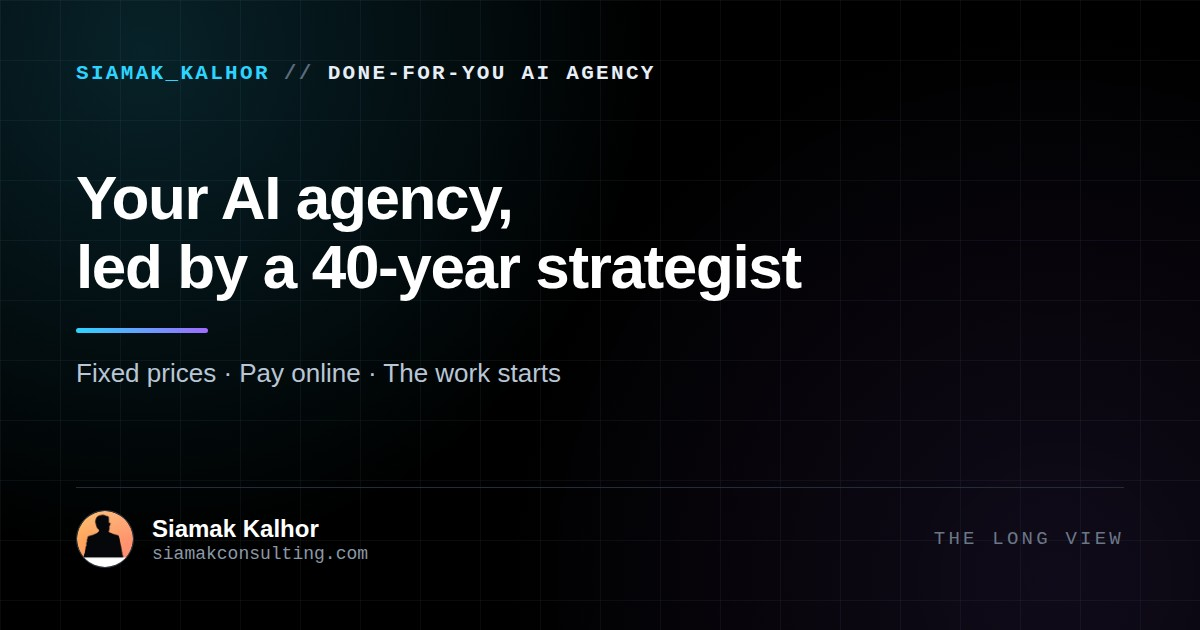
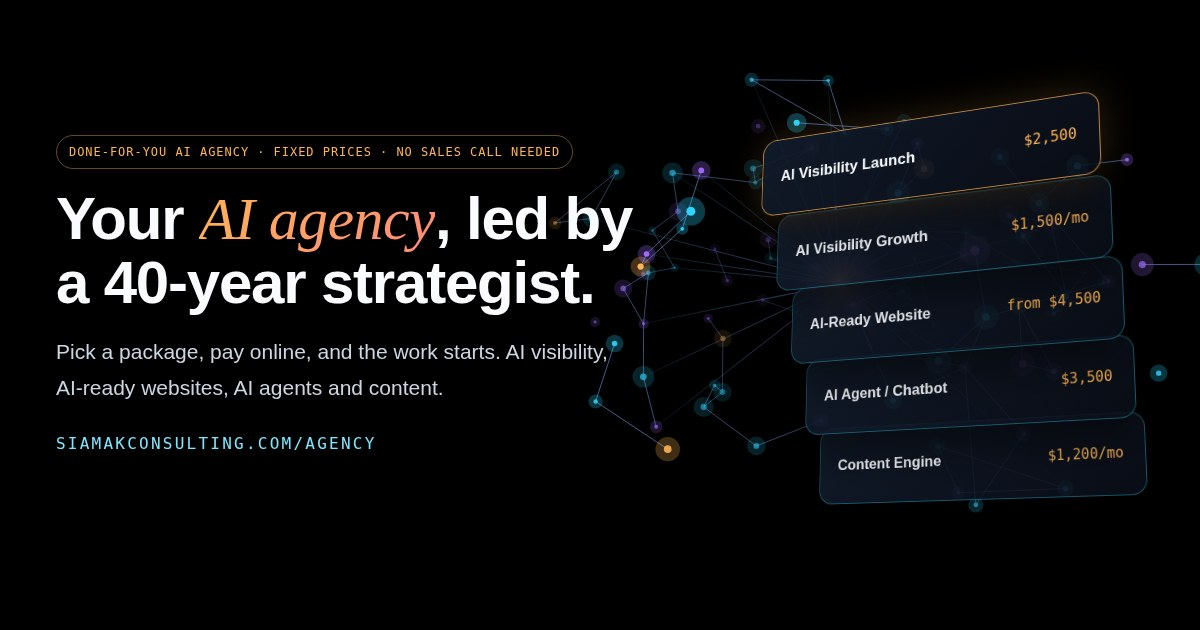
Agency page: 3-D hero network, floating package stack, depth reveal and tilt; new share image
Claude-Session: https://claude.ai/code/session_01TJBnR69vhW71zfQCkDKww1

diff --git a/agency/index.html b/agency/index.html
@@ -25,7 +25,7 @@ try{var c=JSON.parse(localStorage.getItem('sk_consent_v1'));if(c&&c.v===1&&Date.
 <meta property="og:title" content="Done-for-You AI Agency | Siamak Kalhor Consulting">
 <meta property="og:description" content="Fixed-price AI agency services: AI visibility, AI-ready websites, AI chatbots and content. Pay online and the work starts, led by Siamak Kalhor.">
 <meta property="og:url" content="https://siamakconsulting.com/agency">
-<meta property="og:image" content="https://siamakconsulting.com/og/pages/agency.jpg">
+<meta property="og:image" content="https://siamakconsulting.com/og/pages/agency.jpg?v=2">
 <meta property="og:image:width" content="1200">
 <meta property="og:image:height" content="630">
 <meta property="og:image:type" content="image/jpeg">
@@ -33,12 +33,37 @@ try{var c=JSON.parse(localStorage.getItem('sk_consent_v1'));if(c&&c.v===1&&Date.
 <meta name="twitter:card" content="summary_large_image">
 <meta name="twitter:title" content="Done-for-You AI Agency | Siamak Kalhor Consulting">
 <meta name="twitter:description" content="Fixed-price AI agency services: AI visibility, AI-ready websites, AI chatbots and content. Pay online and the work starts, led by Siamak Kalhor.">
-<meta name="twitter:image" content="https://siamakconsulting.com/og/pages/agency.jpg">
+<meta name="twitter:image" content="https://siamakconsulting.com/og/pages/agency.jpg?v=2">
 <script type="application/ld+json">{"@context": "https://schema.org", "@type": "Service", "@id": "https://siamakconsulting.com/agency#service", "name": "Done-for-you AI agency services", "serviceType": ["AI visibility (LLMO)", "AI-ready website design", "AI agents and chatbots", "Content marketing"], "provider": {"@id": "https://siamakconsulting.com/#business"}, "areaServed": [{"@type": "Country", "name": "United States"}, {"@type": "City", "name": "Los Angeles"}], "url": "https://siamakconsulting.com/agency", "description": "Fixed-price, done-for-you AI services for small and mid-size businesses, directed by AI consultant Siamak Kalhor.", "hasOfferCatalog": {"@type": "OfferCatalog", "name": "AI agency packages", "itemListElement": [{"@type": "Offer", "name": "AI Visibility Launch", "price": "2500", "priceCurrency": "USD", "url": "https://siamakconsulting.com/agency#launch", "description": "Businesses that want ChatGPT, Gemini and Perplexity to find, understand and name them.", "seller": {"@id": "https://siamakconsulting.com/#business"}}, {"@type": "Offer", "name": "AI Visibility Growth", "price": "1500", "priceCurrency": "USD", "url": "https://siamakconsulting.com/agency#growth", "description": "Businesses that want to keep climbing in Google and AI answers every month.", "seller": {"@id": "https://siamakconsulting.com/#business"}, "priceSpecification": {"@type": "UnitPriceSpecification", "price": "1500", "priceCurrency": "USD", "unitCode": "MON"}}, {"@type": "Offer", "name": "AI-Ready Website", "price": "4500", "priceCurrency": "USD", "url": "https://siamakconsulting.com/agency#website", "description": "Businesses replacing an old site that Google and AI can barely read.", "seller": {"@id": "https://siamakconsulting.com/#business"}}, {"@type": "Offer", "name": "AI Agent / Chatbot", "price": "3500", "priceCurrency": "USD", "url": "https://siamakconsulting.com/agency#agent", "description": "Businesses losing leads after hours or answering the same questions all day.", "seller": {"@id": "https://siamakconsulting.com/#business"}}, {"@type": "Offer", "name": "Content Engine", "price": "1200", "priceCurrency": "USD", "url": "https://siamakconsulting.com/agency#content", "description": "Businesses that know they should publish but never have the time.", "seller": {"@id": "https://siamakconsulting.com/#business"}, "priceSpecification": {"@type": "UnitPriceSpecification", "price": "1200", "priceCurrency": "USD", "unitCode": "MON"}}]}}</script>
 <script type="application/ld+json">{"@context": "https://schema.org", "@type": "FAQPage", "mainEntity": [{"@type": "Question", "name": "What does the done-for-you AI agency do?", "acceptedAnswer": {"@type": "Answer", "text": "Siamak Kalhor Consulting sets the strategy and does the work for you: AI visibility (getting your business named by ChatGPT, Gemini and Perplexity), AI-ready websites, AI agents and chatbots, and monthly content. You approve the work; you do not have to do it."}}, {"@type": "Question", "name": "Do I need a sales call before I buy?", "acceptedAnswer": {"@type": "Answer", "text": "No. Each package has a fixed price and a checkout button. After you pay, you fill in a short brief about your business and we email a kickoff plan within one business day. You can still call 323-657-7752 if you would rather talk first."}}, {"@type": "Question", "name": "Who actually does the work?", "acceptedAnswer": {"@type": "Answer", "text": "Siamak Kalhor, an AI consultant with 40 years in marketing, directs every project and reviews the work. Delivery uses AI tools and automation built in-house, which is how fixed prices stay this low without cutting corners."}}, {"@type": "Question", "name": "What if my business is not a good fit?", "acceptedAnswer": {"@type": "Answer", "text": "We review every order within one business day. If we cannot do the work well for you, we tell you and refund the payment in full before any work starts."}}, {"@type": "Question", "name": "Can I cancel a monthly plan?", "acceptedAnswer": {"@type": "Answer", "text": "Yes. Monthly plans run month to month. Email or call to cancel and billing stops at the end of the current month."}}, {"@type": "Question", "name": "Which platforms do you work with?", "acceptedAnswer": {"@type": "Answer", "text": "Shopify, WordPress, Wix, Squarespace, Webflow and custom sites. For AI agents, we connect to your email, calendar or CRM where it has an integration."}}]}</script>
 <script type="application/ld+json">{"@context": "https://schema.org", "@type": "BreadcrumbList", "itemListElement": [{"@type": "ListItem", "position": 1, "name": "Home", "item": "https://siamakconsulting.com"}, {"@type": "ListItem", "position": 2, "name": "AI Agency", "item": "https://siamakconsulting.com/agency"}]}</script>
 <style>
-.ag-hero{padding:72px 0 30px}.ag-hero .ph-sub{max-width:800px}
+.ag-hero{padding:72px 0 40px;position:relative;overflow:hidden}.ag-hero .ph-sub{max-width:640px}
+.net3d{position:absolute;inset:0;width:100%;height:100%;z-index:0;pointer-events:none}
+.ag-hero::before{content:"";position:absolute;inset:0;z-index:0;pointer-events:none;background:linear-gradient(90deg,rgba(0,0,0,.78) 0%,rgba(0,0,0,.35) 50%,rgba(0,0,0,0) 75%)}
+.ag-hero>.wrap{position:relative;z-index:1}
+.ag-hgrid{display:grid;grid-template-columns:minmax(0,1.15fr) minmax(0,.85fr);gap:40px;align-items:center}
+.ag-stage{perspective:1200px;height:440px;position:relative}
+.ag-stack{position:absolute;inset:0;transform-style:preserve-3d;transform:rotateX(var(--sx,14deg)) rotateY(var(--sy,-22deg));transition:transform .35s ease-out}
+.ag-layer{position:absolute;left:8%;right:8%;top:50%;height:86px;margin-top:-43px;border-radius:16px;display:flex;align-items:center;justify-content:space-between;gap:12px;padding:0 22px;
+ background:linear-gradient(135deg,rgba(18,28,44,.92),rgba(10,14,24,.88));border:1px solid rgba(45,212,255,.35);box-shadow:0 20px 50px rgba(0,0,0,.55),inset 0 1px 0 rgba(255,255,255,.06);
+ transform:translateY(calc(var(--i) * 74px - 148px)) translateZ(calc(var(--i) * -38px));animation:agFloat 6s ease-in-out infinite;animation-delay:calc(var(--i) * -1.1s);text-decoration:none;color:var(--text)}
+.ag-layer b{font-family:var(--display);font-size:17px;font-weight:600}.ag-layer span{font-family:var(--mono);font-size:15px;color:#ffb454;white-space:nowrap}
+.ag-layer:first-child{border-color:rgba(255,180,84,.7);box-shadow:0 0 40px rgba(255,180,84,.18),0 20px 50px rgba(0,0,0,.55)}
+.ag-layer:hover{border-color:var(--cyan)}
+@keyframes agFloat{0%,100%{translate:0 0}50%{translate:0 -8px}}
+.ag-stats{display:flex;flex-wrap:wrap;gap:10px 26px;margin-top:26px;font-family:var(--mono);font-size:12.5px;color:var(--muted);letter-spacing:.04em}.ag-stats b{color:var(--text);font-size:18px;display:block;font-family:var(--display);letter-spacing:0}
+.ag-grid.d3{perspective:1400px}
+.ag-reveal{opacity:0;transform:translateZ(-220px) rotateX(22deg) translateY(50px);transition:opacity .9s ease,transform 1s cubic-bezier(.2,.8,.2,1)}
+.ag-reveal.in{opacity:1;transform:none}
+.ag-card.tilt{position:relative}
+.ag-card.d3-tilt.in{transform:perspective(900px) rotateX(var(--rx,0deg)) rotateY(var(--ry,0deg));transition:transform .2s ease-out,opacity .9s ease}
+.d3-tilt::after{content:"";position:absolute;inset:0;border-radius:inherit;pointer-events:none;background:radial-gradient(420px circle at var(--gx,50%) var(--gy,50%),rgba(255,255,255,.07),transparent 45%)}
+.ag-card.hot .ag-price{background:linear-gradient(90deg,#ffd27a,#ff9a62);-webkit-background-clip:text;background-clip:text;-webkit-text-fill-color:transparent}
+@media(max-width:900px){.ag-hgrid{grid-template-columns:minmax(0,1fr)}.ag-stage{height:380px}.ag-hero::before{background:linear-gradient(180deg,rgba(0,0,0,.55),rgba(0,0,0,.25) 50%,rgba(0,0,0,.6))}}
+@media(max-width:900px){.ag-hero .net3d{opacity:.4}}
+@media(max-width:520px){.ag-layer{left:2%;right:2%;padding:0 14px;height:74px;margin-top:-37px}.ag-layer b{font-size:15px}.ag-layer span{font-size:13px}.ag-stage{height:340px}}
+@media(prefers-reduced-motion:reduce){.ag-layer{animation:none}.ag-reveal{opacity:1;transform:none;transition:none}}
 .ag-pill{display:inline-block;font-family:var(--mono);font-size:12px;letter-spacing:.08em;color:#ffb454;border:1px solid rgba(255,180,84,.4);border-radius:999px;padding:6px 12px;margin-bottom:18px}
 .ag-grid{display:grid;grid-template-columns:repeat(auto-fit,minmax(300px,1fr));gap:18px;margin-top:22px}
 .ag-card{background:var(--surface);border:1px solid var(--line);border-radius:18px;padding:26px;display:flex;flex-direction:column;gap:12px}
@@ -387,15 +412,17 @@ nav{position:sticky;top:0;z-index:100;background:rgba(0,0,0,.72);backdrop-filter
   </div>
 </nav>
 <main id="main">
-<header class="ag-hero"><div class="wrap">
+<header class="ag-hero"><canvas class="net3d" aria-hidden="true"></canvas><div class="wrap"><div class="ag-hgrid"><div>
 <div class="ag-pill">DONE-FOR-YOU AI AGENCY · FIXED PRICES · NO SALES CALL NEEDED</div>
 <h1 class="ph-h">Your <span class="grad">AI agency</span>, led by a 40-year strategist.</h1>
 <p class="ph-sub">Pick a package, pay online, and the work starts. Siamak Kalhor sets the strategy and reviews every deliverable. Our AI-powered team does the work: getting you named by ChatGPT and Google, AI-ready websites, AI agents that answer leads 24/7, and monthly content.</p>
 <div class="ph-btns" style="margin-top:22px"><a href="#packages" class="btn btn-pri">See the packages &rarr;</a><a href="/audit" class="btn btn-ghost">Free AI visibility report first</a></div>
+<div class="ag-stats"><div><b>5</b>fixed-price packages</div><div><b>1 day</b>to your kickoff plan</div><div><b>40 yrs</b>of marketing judgment</div></div>
+</div><div class="ag-stage" aria-hidden="true"><div class="ag-stack"><a class="ag-layer" href="#launch" style="--i:0" tabindex="-1"><b>AI Visibility Launch</b><span>$2,500</span></a><a class="ag-layer" href="#growth" style="--i:1" tabindex="-1"><b>AI Visibility Growth</b><span>$1,500/mo</span></a><a class="ag-layer" href="#website" style="--i:2" tabindex="-1"><b>AI-Ready Website</b><span>from $4,500</span></a><a class="ag-layer" href="#agent" style="--i:3" tabindex="-1"><b>AI Agent / Chatbot</b><span>$3,500</span></a><a class="ag-layer" href="#content" style="--i:4" tabindex="-1"><b>Content Engine</b><span>$1,200/mo</span></a></div></div></div>
 </div></header>
 <section id="packages"><div class="wrap"><div class="sec-label">Packages</div><h2 class="sec-h">Five ways to hire us</h2>
 <p style="color:var(--muted);max-width:760px">Every price is fixed and published. Pay securely by card through Stripe, then tell us about your business in a two-minute brief.</p>
-<div class="ag-grid"><div class="ag-card hot" id="launch"><div class="ag-tag">Most popular start</div><h3>AI Visibility Launch</h3><div class="ag-price">$2,500<small>one-time</small></div><p class="ag-for">Businesses that want ChatGPT, Gemini and Perplexity to find, understand and name them.</p><ul><li>Full S.C.A.L.E. scan of your site and listings</li><li>Schema and business-entity setup (the facts AI reads)</li><li>Answer-first FAQ and an llms.txt file</li><li>Google profile, directory and citation clean-up</li><li>A 10-question AI tracking baseline</li><li>A written report with your next 90 days</li></ul><div class="ag-time">Delivered in about 2 weeks</div><a class="ag-btn" href="https://buy.stripe.com/eVq00k6P69IQ3B2b2p0kE05" data-pkg="launch" rel="noopener">Start AI Visibility Launch &rarr;</a></div><div class="ag-card" id="growth"><div class="ag-tag">Ongoing</div><h3>AI Visibility Growth</h3><div class="ag-price">$1,500<small>per month</small></div><p class="ag-for">Businesses that want to keep climbing in Google and AI answers every month.</p><ul><li>4 answer-first articles a month, written and published</li><li>Citation and listing building where AI looks</li><li>Ongoing technical and schema fixes</li><li>Monthly AI-mention report: are you named, and where</li><li>Best after the Launch package</li></ul><div class="ag-time">Month to month</div><a class="ag-btn" href="https://buy.stripe.com/8x26oI7Ta8EMb3ugmJ0kE06" data-pkg="growth" rel="noopener">Start AI Visibility Growth &rarr;</a></div><div class="ag-card" id="website"><div class="ag-tag">Build</div><h3>AI-Ready Website</h3><div class="ag-price">From $4,500<small>50% deposit to start ($2,250)</small></div><p class="ag-for">Businesses replacing an old site that Google and AI can barely read.</p><ul><li>Up to 8 pages on Shopify, WordPress or custom</li><li>Clear positioning and copy written for you</li><li>Fast, mobile-first, with schema built in</li><li>Titles, descriptions and share previews on every page</li><li>Analytics and lead forms wired up</li><li>Balance due at launch</li></ul><div class="ag-time">Launched in 3–4 weeks</div><a class="ag-btn" href="https://buy.stripe.com/8x200k8Xe7AIdbC2vT0kE07" data-pkg="website" rel="noopener">Start AI-Ready Website &rarr;</a></div><div class="ag-card" id="agent"><div class="ag-tag">Automation</div><h3>AI Agent / Chatbot</h3><div class="ag-price">$3,500<small>setup + $250/month care</small></div><p class="ag-for">Businesses losing leads after hours or answering the same questions all day.</p><ul><li>A website chat or voice assistant trained on your business</li><li>Answers questions, qualifies leads, books or forwards them</li><li>Leads sent to your email or CRM</li><li>Monthly care: hosting, monitoring and tuning</li><li>You approve every answer before it goes live</li></ul><div class="ag-time">Live in about 3 weeks</div><a class="ag-btn" href="https://buy.stripe.com/9B67sMgpG9IQb3udax0kE08" data-pkg="agent" rel="noopener">Start AI Agent / Chatbot &rarr;</a></div><div class="ag-card" id="content"><div class="ag-tag">Ongoing</div><h3>Content Engine</h3><div class="ag-price">$1,200<small>per month</small></div><p class="ag-for">Businesses that know they should publish but never have the time.</p><ul><li>8 articles a month, researched and published</li><li>12 social posts a month</li><li>Written in your voice, approved by you</li><li>Built to be quoted by AI assistants and found in Google</li></ul><div class="ag-time">Month to month</div><a class="ag-btn" href="https://buy.stripe.com/bJe28s0qI4owgnOdax0kE09" data-pkg="content" rel="noopener">Start Content Engine &rarr;</a></div></div>
+<div class="ag-grid d3"><div class="ag-card tilt ag-reveal hot" id="launch"><div class="ag-tag">Most popular start</div><h3>AI Visibility Launch</h3><div class="ag-price">$2,500<small>one-time</small></div><p class="ag-for">Businesses that want ChatGPT, Gemini and Perplexity to find, understand and name them.</p><ul><li>Full S.C.A.L.E. scan of your site and listings</li><li>Schema and business-entity setup (the facts AI reads)</li><li>Answer-first FAQ and an llms.txt file</li><li>Google profile, directory and citation clean-up</li><li>A 10-question AI tracking baseline</li><li>A written report with your next 90 days</li></ul><div class="ag-time">Delivered in about 2 weeks</div><a class="ag-btn" href="https://buy.stripe.com/eVq00k6P69IQ3B2b2p0kE05" data-pkg="launch" rel="noopener">Start AI Visibility Launch &rarr;</a></div><div class="ag-card tilt ag-reveal" id="growth"><div class="ag-tag">Ongoing</div><h3>AI Visibility Growth</h3><div class="ag-price">$1,500<small>per month</small></div><p class="ag-for">Businesses that want to keep climbing in Google and AI answers every month.</p><ul><li>4 answer-first articles a month, written and published</li><li>Citation and listing building where AI looks</li><li>Ongoing technical and schema fixes</li><li>Monthly AI-mention report: are you named, and where</li><li>Best after the Launch package</li></ul><div class="ag-time">Month to month</div><a class="ag-btn" href="https://buy.stripe.com/8x26oI7Ta8EMb3ugmJ0kE06" data-pkg="growth" rel="noopener">Start AI Visibility Growth &rarr;</a></div><div class="ag-card tilt ag-reveal" id="website"><div class="ag-tag">Build</div><h3>AI-Ready Website</h3><div class="ag-price">From $4,500<small>50% deposit to start ($2,250)</small></div><p class="ag-for">Businesses replacing an old site that Google and AI can barely read.</p><ul><li>Up to 8 pages on Shopify, WordPress or custom</li><li>Clear positioning and copy written for you</li><li>Fast, mobile-first, with schema built in</li><li>Titles, descriptions and share previews on every page</li><li>Analytics and lead forms wired up</li><li>Balance due at launch</li></ul><div class="ag-time">Launched in 3–4 weeks</div><a class="ag-btn" href="https://buy.stripe.com/8x200k8Xe7AIdbC2vT0kE07" data-pkg="website" rel="noopener">Start AI-Ready Website &rarr;</a></div><div class="ag-card tilt ag-reveal" id="agent"><div class="ag-tag">Automation</div><h3>AI Agent / Chatbot</h3><div class="ag-price">$3,500<small>setup + $250/month care</small></div><p class="ag-for">Businesses losing leads after hours or answering the same questions all day.</p><ul><li>A website chat or voice assistant trained on your business</li><li>Answers questions, qualifies leads, books or forwards them</li><li>Leads sent to your email or CRM</li><li>Monthly care: hosting, monitoring and tuning</li><li>You approve every answer before it goes live</li></ul><div class="ag-time">Live in about 3 weeks</div><a class="ag-btn" href="https://buy.stripe.com/9B67sMgpG9IQb3udax0kE08" data-pkg="agent" rel="noopener">Start AI Agent / Chatbot &rarr;</a></div><div class="ag-card tilt ag-reveal" id="content"><div class="ag-tag">Ongoing</div><h3>Content Engine</h3><div class="ag-price">$1,200<small>per month</small></div><p class="ag-for">Businesses that know they should publish but never have the time.</p><ul><li>8 articles a month, researched and published</li><li>12 social posts a month</li><li>Written in your voice, approved by you</li><li>Built to be quoted by AI assistants and found in Google</li></ul><div class="ag-time">Month to month</div><a class="ag-btn" href="https://buy.stripe.com/bJe28s0qI4owgnOdax0kE09" data-pkg="content" rel="noopener">Start Content Engine &rarr;</a></div></div>
 <p style="color:var(--muted-dim);font-size:14px;margin-top:16px">Need something bigger or different? <a href="/contact-us" style="color:var(--cyan)">Ask for a custom quote</a>, or book <a href="/online-consulting" style="color:var(--cyan)">a strategy hour with Siamak</a> ($350).</p>
 </div></section>
 <section><div class="wrap"><div class="sec-label">How it works</div><h2 class="sec-h">From checkout to results, without the meetings</h2>
@@ -561,6 +588,7 @@ elevenlabs-convai{
 </script>
 <script defer src="/consent.js"></script>
 <script defer src="/robot.js"></script>
-<script src="/agency/agency.js?v=1" defer></script>
+<script src="/agency/agency.js?v=2" defer></script>
+<script src="/assets/depth3d.js?v=2" defer></script>
 </body>
 </html>

diff --git a/agency/start/index.html b/agency/start/index.html
@@ -25,7 +25,7 @@ try{var c=JSON.parse(localStorage.getItem('sk_consent_v1'));if(c&&c.v===1&&Date.
 <meta property="og:title" content="Start Your AI Agency Project | Siamak Kalhor Consulting">
 <meta property="og:description" content="Send your project brief after checkout: your business, goals, competitors and website. We email a kickoff plan within one business day.">
 <meta property="og:url" content="https://siamakconsulting.com/agency/start">
-<meta property="og:image" content="https://siamakconsulting.com/og/pages/agency.jpg">
+<meta property="og:image" content="https://siamakconsulting.com/og/pages/agency.jpg?v=2">
 <meta property="og:image:width" content="1200">
 <meta property="og:image:height" content="630">
 <meta property="og:image:type" content="image/jpeg">
@@ -33,9 +33,34 @@ try{var c=JSON.parse(localStorage.getItem('sk_consent_v1'));if(c&&c.v===1&&Date.
 <meta name="twitter:card" content="summary_large_image">
 <meta name="twitter:title" content="Start Your AI Agency Project | Siamak Kalhor Consulting">
 <meta name="twitter:description" content="Send your project brief after checkout: your business, goals, competitors and website. We email a kickoff plan within one business day.">
-<meta name="twitter:image" content="https://siamakconsulting.com/og/pages/agency.jpg">
+<meta name="twitter:image" content="https://siamakconsulting.com/og/pages/agency.jpg?v=2">
 <style>
-.ag-hero{padding:72px 0 30px}.ag-hero .ph-sub{max-width:800px}
+.ag-hero{padding:72px 0 40px;position:relative;overflow:hidden}.ag-hero .ph-sub{max-width:640px}
+.net3d{position:absolute;inset:0;width:100%;height:100%;z-index:0;pointer-events:none}
+.ag-hero::before{content:"";position:absolute;inset:0;z-index:0;pointer-events:none;background:linear-gradient(90deg,rgba(0,0,0,.78) 0%,rgba(0,0,0,.35) 50%,rgba(0,0,0,0) 75%)}
+.ag-hero>.wrap{position:relative;z-index:1}
+.ag-hgrid{display:grid;grid-template-columns:minmax(0,1.15fr) minmax(0,.85fr);gap:40px;align-items:center}
+.ag-stage{perspective:1200px;height:440px;position:relative}
+.ag-stack{position:absolute;inset:0;transform-style:preserve-3d;transform:rotateX(var(--sx,14deg)) rotateY(var(--sy,-22deg));transition:transform .35s ease-out}
+.ag-layer{position:absolute;left:8%;right:8%;top:50%;height:86px;margin-top:-43px;border-radius:16px;display:flex;align-items:center;justify-content:space-between;gap:12px;padding:0 22px;
+ background:linear-gradient(135deg,rgba(18,28,44,.92),rgba(10,14,24,.88));border:1px solid rgba(45,212,255,.35);box-shadow:0 20px 50px rgba(0,0,0,.55),inset 0 1px 0 rgba(255,255,255,.06);
+ transform:translateY(calc(var(--i) * 74px - 148px)) translateZ(calc(var(--i) * -38px));animation:agFloat 6s ease-in-out infinite;animation-delay:calc(var(--i) * -1.1s);text-decoration:none;color:var(--text)}
+.ag-layer b{font-family:var(--display);font-size:17px;font-weight:600}.ag-layer span{font-family:var(--mono);font-size:15px;color:#ffb454;white-space:nowrap}
+.ag-layer:first-child{border-color:rgba(255,180,84,.7);box-shadow:0 0 40px rgba(255,180,84,.18),0 20px 50px rgba(0,0,0,.55)}
+.ag-layer:hover{border-color:var(--cyan)}
+@keyframes agFloat{0%,100%{translate:0 0}50%{translate:0 -8px}}
+.ag-stats{display:flex;flex-wrap:wrap;gap:10px 26px;margin-top:26px;font-family:var(--mono);font-size:12.5px;color:var(--muted);letter-spacing:.04em}.ag-stats b{color:var(--text);font-size:18px;display:block;font-family:var(--display);letter-spacing:0}
+.ag-grid.d3{perspective:1400px}
+.ag-reveal{opacity:0;transform:translateZ(-220px) rotateX(22deg) translateY(50px);transition:opacity .9s ease,transform 1s cubic-bezier(.2,.8,.2,1)}
+.ag-reveal.in{opacity:1;transform:none}
+.ag-card.tilt{position:relative}
+.ag-card.d3-tilt.in{transform:perspective(900px) rotateX(var(--rx,0deg)) rotateY(var(--ry,0deg));transition:transform .2s ease-out,opacity .9s ease}
+.d3-tilt::after{content:"";position:absolute;inset:0;border-radius:inherit;pointer-events:none;background:radial-gradient(420px circle at var(--gx,50%) var(--gy,50%),rgba(255,255,255,.07),transparent 45%)}
+.ag-card.hot .ag-price{background:linear-gradient(90deg,#ffd27a,#ff9a62);-webkit-background-clip:text;background-clip:text;-webkit-text-fill-color:transparent}
+@media(max-width:900px){.ag-hgrid{grid-template-columns:minmax(0,1fr)}.ag-stage{height:380px}.ag-hero::before{background:linear-gradient(180deg,rgba(0,0,0,.55),rgba(0,0,0,.25) 50%,rgba(0,0,0,.6))}}
+@media(max-width:900px){.ag-hero .net3d{opacity:.4}}
+@media(max-width:520px){.ag-layer{left:2%;right:2%;padding:0 14px;height:74px;margin-top:-37px}.ag-layer b{font-size:15px}.ag-layer span{font-size:13px}.ag-stage{height:340px}}
+@media(prefers-reduced-motion:reduce){.ag-layer{animation:none}.ag-reveal{opacity:1;transform:none;transition:none}}
 .ag-pill{display:inline-block;font-family:var(--mono);font-size:12px;letter-spacing:.08em;color:#ffb454;border:1px solid rgba(255,180,84,.4);border-radius:999px;padding:6px 12px;margin-bottom:18px}
 .ag-grid{display:grid;grid-template-columns:repeat(auto-fit,minmax(300px,1fr));gap:18px;margin-top:22px}
 .ag-card{background:var(--surface);border:1px solid var(--line);border-radius:18px;padding:26px;display:flex;flex-direction:column;gap:12px}
@@ -552,6 +577,7 @@ elevenlabs-convai{
 </script>
 <script defer src="/consent.js"></script>
 <script defer src="/robot.js"></script>
-<script src="/agency/agency.js?v=1" defer></script>
+<script src="/agency/agency.js?v=2" defer></script>
+<script src="/assets/depth3d.js?v=2" defer></script>
 </body>
 </html>

diff --git a/agency/agency.js b/agency/agency.js
@@ -6,6 +6,23 @@
   document.querySelectorAll('a[data-pkg]').forEach(function (a) {
     a.addEventListener('click', function () { var k = a.getAttribute('data-pkg'); track('begin_checkout', { currency: 'USD', value: VALUES[k] || 0, items: [{ item_name: k }] }); });
   });
+  // 3-D: packages rise out of depth as they scroll in; the hero stack follows the pointer.
+  var reduce = window.matchMedia && matchMedia('(prefers-reduced-motion: reduce)').matches;
+  var rev = document.querySelectorAll('.ag-reveal');
+  if (reduce || !('IntersectionObserver' in window)) rev.forEach(function (el) { el.classList.add('in'); });
+  else {
+    var io = new IntersectionObserver(function (en) {
+      en.forEach(function (x) { if (x.isIntersecting) { var el = x.target, d = [].indexOf.call(el.parentNode.children, el) % 3; setTimeout(function () { el.classList.add('in'); }, d * 120); io.unobserve(el); } });
+    }, { threshold: 0.12 });
+    rev.forEach(function (el) { io.observe(el); });
+  }
+  var stack = document.querySelector('.ag-stack');
+  if (stack && !reduce && window.matchMedia && matchMedia('(hover: hover)').matches) {
+    addEventListener('pointermove', function (e) {
+      stack.style.setProperty('--sy', (-22 + (e.clientX / innerWidth - 0.5) * 26).toFixed(2) + 'deg');
+      stack.style.setProperty('--sx', (14 - (e.clientY / innerHeight - 0.5) * 16).toFixed(2) + 'deg');
+    }, { passive: true });
+  }
   var form = document.getElementById('ag-brief');
   if (!form) return;
   var qs = new URLSearchParams(location.search), session = qs.get('session') || '', pkg = qs.get('pkg') || '';

diff --git a/scripts/build-agency.py b/scripts/build-agency.py
@@ -46,10 +46,35 @@ for pat in [r'<title>.*?</title>', r'<meta\s+name="description"[^>]*>', r'<meta\
             r'<link\s+rel="alternate"\s+hreflang[^>]*>', r'<script type="application/ld\+json">.*?</script>']:
     head = re.sub(pat, '', head, flags=re.S)
 pre_main, rest = body.split('<main id="main">', 1)
-post_main = rest.split('</main>', 1)[1].replace('</body>', '<script src="/agency/agency.js?v=1" defer></script>\n</body>')
+post_main = rest.split('</main>', 1)[1].replace('</body>', '<script src="/agency/agency.js?v=2" defer></script>\n<script src="/assets/depth3d.js?v=2" defer></script>\n</body>')
 
 CSS = '''<style>
-.ag-hero{padding:72px 0 30px}.ag-hero .ph-sub{max-width:800px}
+.ag-hero{padding:72px 0 40px;position:relative;overflow:hidden}.ag-hero .ph-sub{max-width:640px}
+.net3d{position:absolute;inset:0;width:100%;height:100%;z-index:0;pointer-events:none}
+.ag-hero::before{content:"";position:absolute;inset:0;z-index:0;pointer-events:none;background:linear-gradient(90deg,rgba(0,0,0,.78) 0%,rgba(0,0,0,.35) 50%,rgba(0,0,0,0) 75%)}
+.ag-hero>.wrap{position:relative;z-index:1}
+.ag-hgrid{display:grid;grid-template-columns:minmax(0,1.15fr) minmax(0,.85fr);gap:40px;align-items:center}
+.ag-stage{perspective:1200px;height:440px;position:relative}
+.ag-stack{position:absolute;inset:0;transform-style:preserve-3d;transform:rotateX(var(--sx,14deg)) rotateY(var(--sy,-22deg));transition:transform .35s ease-out}
+.ag-layer{position:absolute;left:8%;right:8%;top:50%;height:86px;margin-top:-43px;border-radius:16px;display:flex;align-items:center;justify-content:space-between;gap:12px;padding:0 22px;
+ background:linear-gradient(135deg,rgba(18,28,44,.92),rgba(10,14,24,.88));border:1px solid rgba(45,212,255,.35);box-shadow:0 20px 50px rgba(0,0,0,.55),inset 0 1px 0 rgba(255,255,255,.06);
+ transform:translateY(calc(var(--i) * 74px - 148px)) translateZ(calc(var(--i) * -38px));animation:agFloat 6s ease-in-out infinite;animation-delay:calc(var(--i) * -1.1s);text-decoration:none;color:var(--text)}
+.ag-layer b{font-family:var(--display);font-size:17px;font-weight:600}.ag-layer span{font-family:var(--mono);font-size:15px;color:#ffb454;white-space:nowrap}
+.ag-layer:first-child{border-color:rgba(255,180,84,.7);box-shadow:0 0 40px rgba(255,180,84,.18),0 20px 50px rgba(0,0,0,.55)}
+.ag-layer:hover{border-color:var(--cyan)}
+@keyframes agFloat{0%,100%{translate:0 0}50%{translate:0 -8px}}
+.ag-stats{display:flex;flex-wrap:wrap;gap:10px 26px;margin-top:26px;font-family:var(--mono);font-size:12.5px;color:var(--muted);letter-spacing:.04em}.ag-stats b{color:var(--text);font-size:18px;display:block;font-family:var(--display);letter-spacing:0}
+.ag-grid.d3{perspective:1400px}
+.ag-reveal{opacity:0;transform:translateZ(-220px) rotateX(22deg) translateY(50px);transition:opacity .9s ease,transform 1s cubic-bezier(.2,.8,.2,1)}
+.ag-reveal.in{opacity:1;transform:none}
+.ag-card.tilt{position:relative}
+.ag-card.d3-tilt.in{transform:perspective(900px) rotateX(var(--rx,0deg)) rotateY(var(--ry,0deg));transition:transform .2s ease-out,opacity .9s ease}
+.d3-tilt::after{content:"";position:absolute;inset:0;border-radius:inherit;pointer-events:none;background:radial-gradient(420px circle at var(--gx,50%) var(--gy,50%),rgba(255,255,255,.07),transparent 45%)}
+.ag-card.hot .ag-price{background:linear-gradient(90deg,#ffd27a,#ff9a62);-webkit-background-clip:text;background-clip:text;-webkit-text-fill-color:transparent}
+@media(max-width:900px){.ag-hgrid{grid-template-columns:minmax(0,1fr)}.ag-stage{height:380px}.ag-hero::before{background:linear-gradient(180deg,rgba(0,0,0,.55),rgba(0,0,0,.25) 50%,rgba(0,0,0,.6))}}
+@media(max-width:900px){.ag-hero .net3d{opacity:.4}}
+@media(max-width:520px){.ag-layer{left:2%;right:2%;padding:0 14px;height:74px;margin-top:-37px}.ag-layer b{font-size:15px}.ag-layer span{font-size:13px}.ag-stage{height:340px}}
+@media(prefers-reduced-motion:reduce){.ag-layer{animation:none}.ag-reveal{opacity:1;transform:none;transition:none}}
 .ag-pill{display:inline-block;font-family:var(--mono);font-size:12px;letter-spacing:.08em;color:#ffb454;border:1px solid rgba(255,180,84,.4);border-radius:999px;padding:6px 12px;margin-bottom:18px}
 .ag-grid{display:grid;grid-template-columns:repeat(auto-fit,minmax(300px,1fr));gap:18px;margin-top:22px}
 .ag-card{background:var(--surface);border:1px solid var(--line);border-radius:18px;padding:26px;display:flex;flex-direction:column;gap:12px}
@@ -76,7 +101,7 @@ CSS = '''<style>
 @media (max-width:700px){.ag-form .row{grid-template-columns:1fr}}
 </style>'''
 
-def page(path, title, desc, ld, main, robots='index, follow, max-image-preview:large', og='og/pages/agency.jpg'):
+def page(path, title, desc, ld, main, robots='index, follow, max-image-preview:large', og='og/pages/agency.jpg?v=2'):
     url = SITE + '/' + path
     meta = (f'<title>{esc(title)}</title>\n<meta name="description" content="{esc(desc)}">\n<meta name="robots" content="{robots}">\n'
             f'<link rel="canonical" href="{url}">\n<meta property="og:type" content="website">\n<meta property="og:title" content="{esc(title)}">\n'
@@ -116,19 +141,22 @@ ld = [{'@context': 'https://schema.org', '@type': 'Service', '@id': SITE + '/age
 cards = ''
 for i, p in enumerate(PACKAGES):
     gets = ''.join(f'<li>{esc(g)}</li>' for g in p['gets'])
-    cards += (f'<div class="ag-card{" hot" if i == 0 else ""}" id="{p["key"]}"><div class="ag-tag">{esc(p["tag"])}</div><h3>{esc(p["name"])}</h3>'
+    cards += (f'<div class="ag-card tilt ag-reveal{" hot" if i == 0 else ""}" id="{p["key"]}"><div class="ag-tag">{esc(p["tag"])}</div><h3>{esc(p["name"])}</h3>'
               f'<div class="ag-price">{esc(p["price"])}<small>{esc(p["per"])}</small></div><p class="ag-for">{esc(p["for"])}</p><ul>{gets}</ul>'
               f'<div class="ag-time">{esc(p["time"])}</div><a class="ag-btn" href="{p["link"]}" data-pkg="{p["key"]}" rel="noopener">Start {esc(p["name"])} &rarr;</a></div>')
 faq_html = ''.join(f'<details class="ag-card" style="padding:18px 22px;gap:0"><summary style="cursor:pointer;font-weight:600">{esc(q)}</summary><p style="color:var(--muted);margin-top:10px">{esc(a)}</p></details>' for q, a in FAQ)
-main = f'''<header class="ag-hero"><div class="wrap">
+stack = ''.join(f'<a class="ag-layer" href="#{p["key"]}" style="--i:{k}" tabindex="-1"><b>{esc(p["name"])}</b><span>{esc(p["price"].replace("From ","from "))}{"/mo" if p["per"]=="per month" else ""}</span></a>' for k, p in enumerate(PACKAGES))
+main = f'''<header class="ag-hero"><canvas class="net3d" aria-hidden="true"></canvas><div class="wrap"><div class="ag-hgrid"><div>
 <div class="ag-pill">DONE-FOR-YOU AI AGENCY · FIXED PRICES · NO SALES CALL NEEDED</div>
 <h1 class="ph-h">Your <span class="grad">AI agency</span>, led by a 40-year strategist.</h1>
 <p class="ph-sub">Pick a package, pay online, and the work starts. Siamak Kalhor sets the strategy and reviews every deliverable. Our AI-powered team does the work: getting you named by ChatGPT and Google, AI-ready websites, AI agents that answer leads 24/7, and monthly content.</p>
 <div class="ph-btns" style="margin-top:22px"><a href="#packages" class="btn btn-pri">See the packages &rarr;</a><a href="/audit" class="btn btn-ghost">Free AI visibility report first</a></div>
+<div class="ag-stats"><div><b>5</b>fixed-price packages</div><div><b>1 day</b>to your kickoff plan</div><div><b>40 yrs</b>of marketing judgment</div></div>
+</div><div class="ag-stage" aria-hidden="true"><div class="ag-stack">{stack}</div></div></div>
 </div></header>
 <section id="packages"><div class="wrap"><div class="sec-label">Packages</div><h2 class="sec-h">Five ways to hire us</h2>
 <p style="color:var(--muted);max-width:760px">Every price is fixed and published. Pay securely by card through Stripe, then tell us about your business in a two-minute brief.</p>
-<div class="ag-grid">{cards}</div>
+<div class="ag-grid d3">{cards}</div>
 <p style="color:var(--muted-dim);font-size:14px;margin-top:16px">Need something bigger or different? <a href="/contact-us" style="color:var(--cyan)">Ask for a custom quote</a>, or book <a href="/online-consulting" style="color:var(--cyan)">a strategy hour with Siamak</a> ($350).</p>
 </div></section>
 <section><div class="wrap"><div class="sec-label">How it works</div><h2 class="sec-h">From checkout to results, without the meetings</h2>
